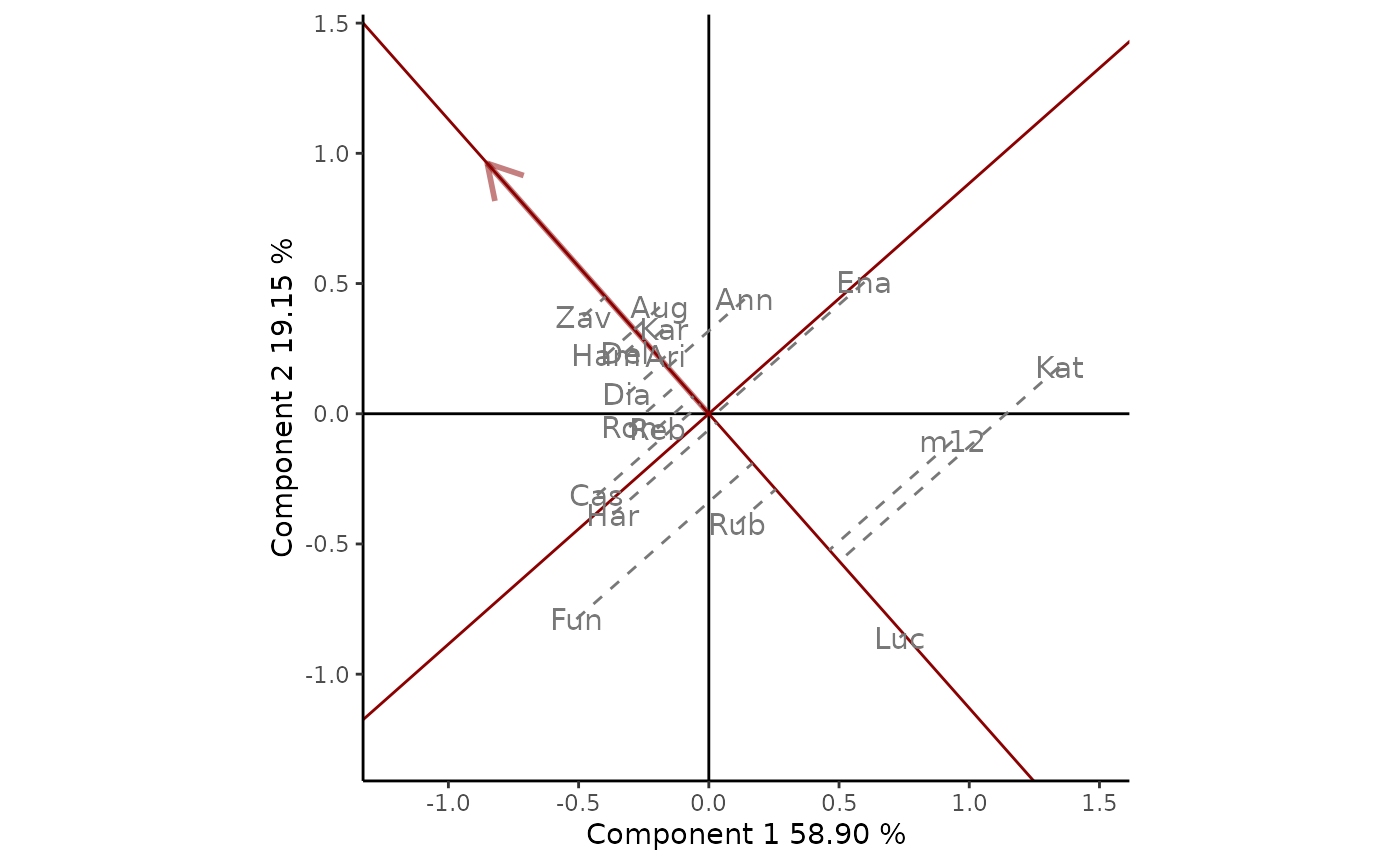
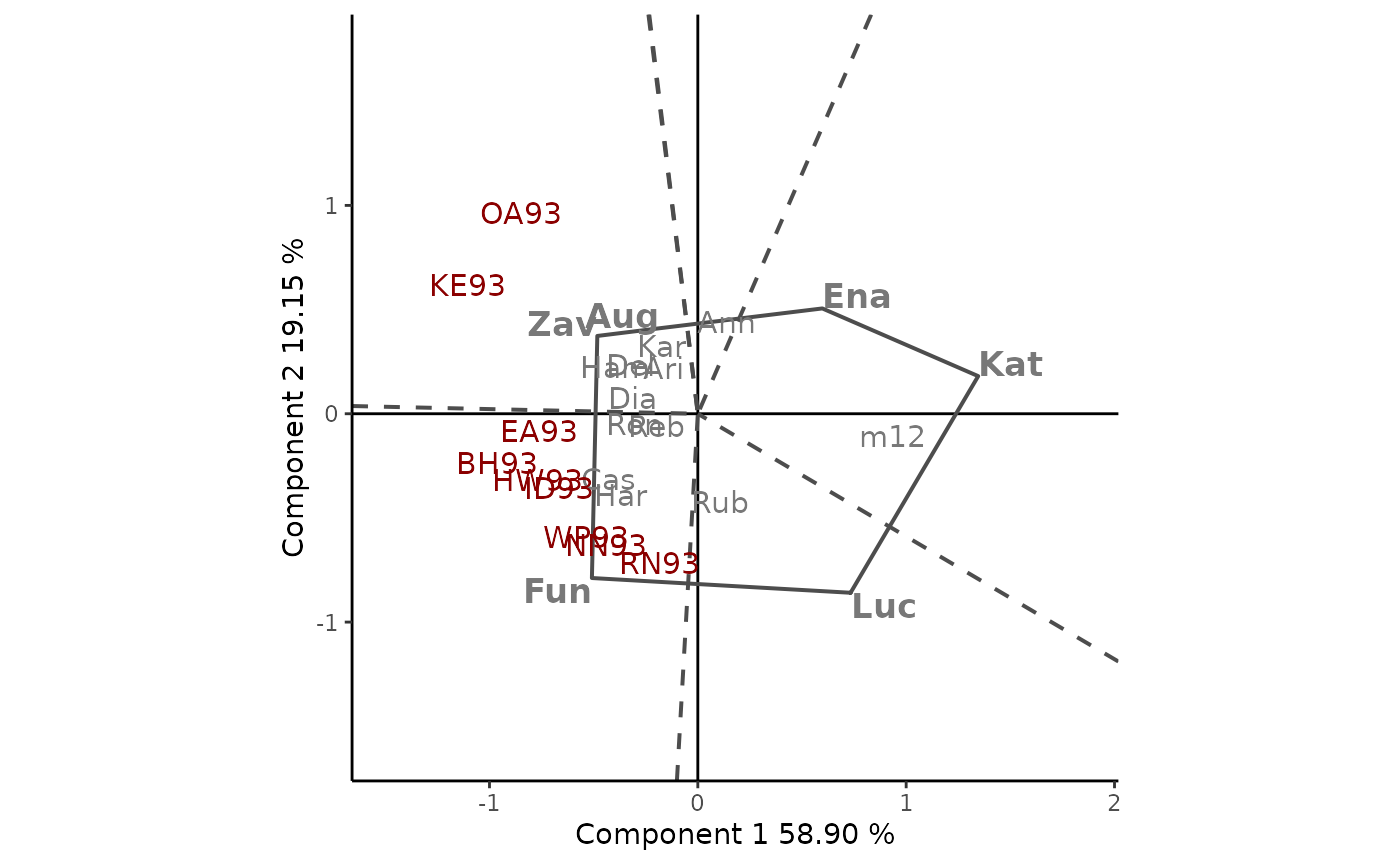
2-11-2021

diff --git a/docs/articles/b-shiny.html b/docs/articles/b-shiny.html
@@ -91,7 +91,7 @@ Centro de Estudios Fotosintéticos y Bioquímicos<br>
 Universidad Nacional de Rosario<br>
 Rosario, Argentina</div></h4>
             
-            <h4 class="date">2021-10-25</h4>
+            <h4 class="date">2021-11-02</h4>
       
       <small class="dont-index">Source: <a href="https://github.com/jangelini/geneticae/blob/master/vignettes/b-shiny.Rmd"><code>vignettes/b-shiny.Rmd</code></a></small>
       <div class="hidden name"><code>b-shiny.Rmd</code></div>
@@ -119,8 +119,8 @@ text-align: justify}
 <p>The dataset yan.winterwheat available as example dataset has information about the yield of 18 winter wheat varieties grown in nine environments in Ontario at 1993. The GGE biplot visually addresses many issues relative to genotype and test environment evaluation. The GGE Biplot tab allows to builds several GGE biplots views. The basic one is produced by default. If Which Won Where/What is indicate in plot type, and the other options are left by default the polygonal view of the GGE biplots is provides (Figure 1). This is an effective way to visualize the which-won-where pattern of MET data. Cultivars in the vertices of the polygon (Fun,Zav, Ena, Kat and Luc) are those with the longest vectors, in their respective directions, which is a measure of the ability to respond to environments. The vertex cultivars are, therefore, among the most responsive cultivars; all other cultivars are less responsive in their respective directions.</p>
 <p>The dotted lines are perpendicular to the polygon sides and divide the biplot into mega-environments, each of which has a vertex cultivar, which is the one with the highest yield (phenotype) in all environments found in it. OA93 and KE93 are in the same sector, separated from the rest of the biplot by two perpendicular lines, and Zav is the highest-yielding cultivar in this sector. Fun is the highest-yielding cultivar in its sector, which contains seven environments, namely, EA93, BH93, HW93, ID93, WP93, NN93, and RN93. No environments fell in the sectors with Ena, Kat, and Luc as vertex cultivars. This indicates that these vertex cultivars were not the best in any of the test environments. Moreover, these cultivars were the poorest in some or all of the environments.</p>
 <div class="figure" style="text-align: center">
-<img src="b-shiny_files/figure-html/unnamed-chunk-2-1.png" alt="Figure: Comparison of cultivar performance in a selected environment (OA93). The scaling method used is symmetrical singular value partitioning (by default). The 78% of G + GE variability is explained by the first two multiplicative terms." width="60%"><p class="caption">
-Figure: Comparison of cultivar performance in a selected environment (OA93). The scaling method used is symmetrical singular value partitioning (by default). The 78% of G + GE variability is explained by the first two multiplicative terms.
+<img src="b-shiny_files/figure-html/unnamed-chunk-2-1.png" alt="Figure: Polygon view of the GGE biplot, showing which cultivars presented highest yield in each environment. The scaling method used is symmetrical singular value partitioning (by default). The 78% of G + GE variability is explained by the first two multiplicative terms. Cultivars are shown in lowercase and environments in uppercase." width="60%"><p class="caption">
+Figure: Polygon view of the GGE biplot, showing which cultivars presented highest yield in each environment. The scaling method used is symmetrical singular value partitioning (by default). The 78% of G + GE variability is explained by the first two multiplicative terms. Cultivars are shown in lowercase and environments in uppercase.
 </p>
 </div>
 </div>

diff --git a/docs/articles/a-tutorial.html b/docs/articles/a-tutorial.html
@@ -91,7 +91,7 @@ Centro de Estudios Fotosintéticos y Bioquímicos<br>
 Universidad Nacional de Rosario<br>
 Rosario, Argentina</div></h4>
             
-            <h4 class="date">2021-10-25</h4>
+            <h4 class="date">2021-11-02</h4>
       
       <small class="dont-index">Source: <a href="https://github.com/jangelini/geneticae/blob/master/vignettes/a-tutorial.Rmd"><code>vignettes/a-tutorial.Rmd</code></a></small>
       <div class="hidden name"><code>a-tutorial.Rmd</code></div>
